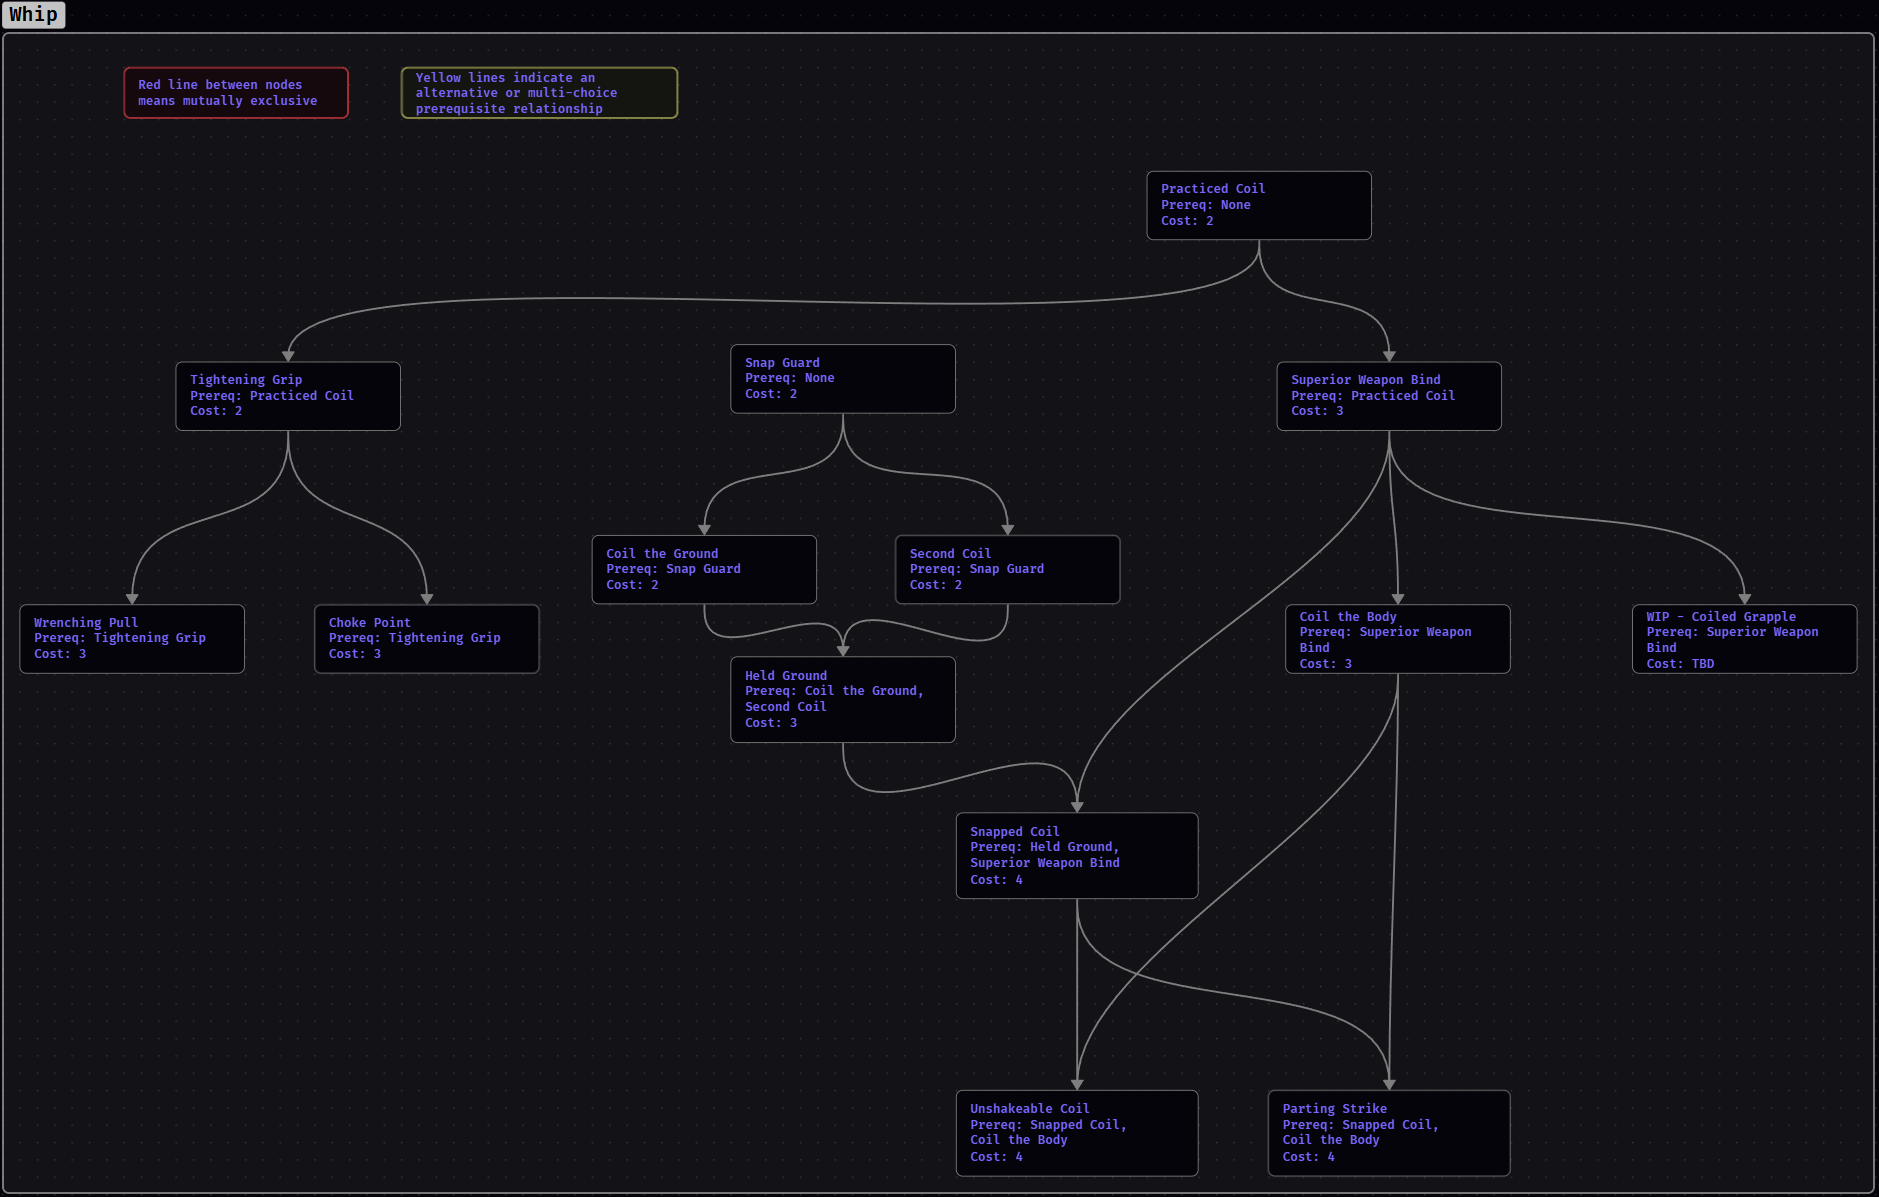
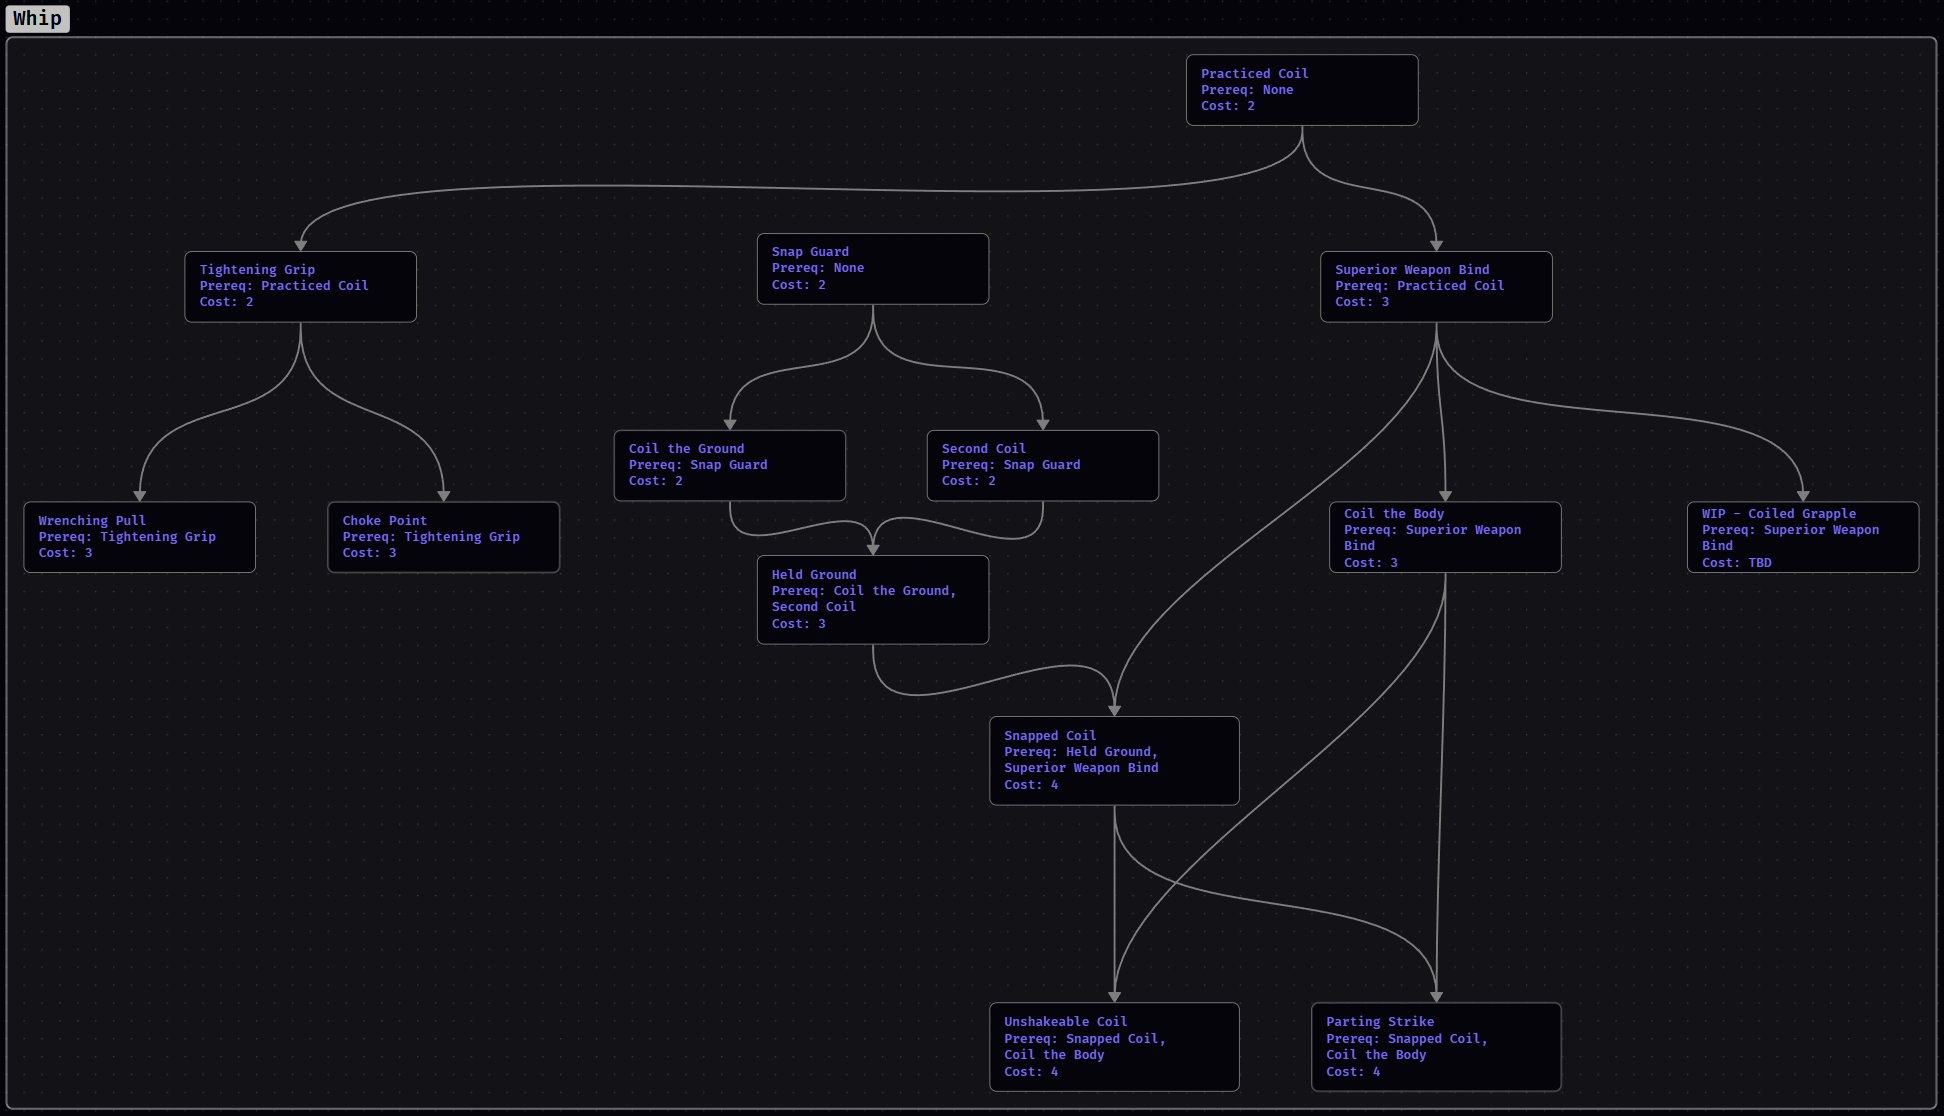
Axes

diff --git a/Worlds/Solasfall/Disciplines/Weapon Mastery/Axes/Axes.md b/Worlds/Solasfall/Disciplines/Weapon Mastery/Axes/Axes.md
@@ -1,0 +1,78 @@
+---
+tags:
+  - Mechanics/Combat
+  - Discipline
+---
+# Axes
+![[Axes.png]]
+## Wide Swing
+**Prerequisites:** None.
+**Cost:** 2 Trait Points.
+Your melee Attack with an axe may instead target a cone extending out to your weapon's Range in front of you, covering your Front Arc and one Side Arc (90° total). Make a single Attack roll, compared individually against the Evasion of every creature in the cone. Damage die is reduced by one step for each target hit beyond the first, to a minimum of 0 damage — it cannot be reduced further or turned negative.
+
+## Broadening Arc
+**Prerequisites:** Wide Swing.
+**Cost:** 2 Trait Points.
+Your cone widens to cover your full 180° — Front Arc and both Side Arcs.
+
+## Cushioned Cleave
+**Prerequisites:** Broadening Arc.
+**Cost:** 3 Trait Points.
+The damage penalty from Wide Swing softens. Your damage die is now reduced by one step for every **two** targets hit beyond the first, rounded down, instead of every one.
+
+## Full Cleave
+**Prerequisites:** Cushioned Cleave.
+**Cost:** 3 Trait Points.
+Remove the damage penalty from your cone Attack entirely. Every target caught in the cone takes your full weapon damage.
+
+## Opened Seams
+**Prerequisites:** None.
+**Cost:** 2 Trait Points.
+Axes you wield with the [[Weapon Traits#Sundering|Sundering]] trait may trigger their Sunder effect on **any** hit against an armoured target, not only when a portion of damage would otherwise reach [[Armour]] DR.
+
+## Deepened Sunder
+**Prerequisites:** Opened Seams.
+**Cost:** 2 Trait Points.
+Your Sundering effect reduces the target's Armour DR by **4** instead of 2.
+
+## Cracking Point
+**Prerequisites:** Deepened Sunder.
+**Cost:** 3 Trait Points.
+Sunder effects you cause may now stack up to **twice** on the same target before repair, instead of the normal single application.
+
+## Armour Breaker
+**Prerequisites:** Cracking Point.
+**Cost:** 3 Trait Points.
+Once per Round, a hit with an axe **ignores the target's Armour DR entirely** for that hit. Sunder still applies afterward as normal. Armour DR reduced through this tree can never be brought below 0 — it only ever removes protection, it does not create vulnerability.
+
+## Reckless Momentum
+**Prerequisites:** None.
+**Cost:** 2 Trait Points.
+[[Heavy Attack|Heavy Attacks]] made with an axe suffer only **–1** to Speed instead of –2.
+
+## Overcommit
+**Prerequisites:** Reckless Momentum.
+**Cost:** 2 Trait Points.
+Heavy Attacks made with an axe cost **1 Full Action** instead of 2. They still deal double damage as normal.
+
+## All In
+**Prerequisites:** Overcommit.
+**Cost:** 3 Trait Points.
+Once per Round, you may forgo your ability to Parry or Dodge until the start of your next turn to add your **Might a second time** to a single axe Attack's damage.
+
+## Unstoppable Swing
+**Prerequisites:** All In.
+**Cost:** 3 Trait Points.
+Heavy Attacks made with an axe no longer reduce Speed at all.
+
+---
+
+## Unbreakable Rhythm
+**Prerequisites:** Armour Breaker, Unstoppable Swing.
+**Cost:** 4 Trait Points.
+Your Sunder effects now apply even through a **Parried** or **Blocked** hit — the armour cracks regardless of whether the strike itself connected cleanly.
+
+## Reaper's Arc
+**Prerequisites:** Full Cleave, All In.
+**Cost:** 4 Trait Points.
+When you make a cone Attack, increase your damage die by **one step** against the single highest-Evasion target caught within it — the swing finds its most dangerous mark hardest, even as it sweeps everyone else aside.

diff --git a/Worlds/Solasfall/Characters/Character Creation.md b/Worlds/Solasfall/Characters/Character Creation.md
@@ -22,7 +22,6 @@ Before choosing a race, allocate Trait Points from your level 0 pool of **25** a
 - **Attributes** — six attributes rated 0–6, each added directly to relevant rolls. Costs scale as attributes increase. All attributes start at 0.
 - **Skill Training** — each point raises training level by 1, up to the maximum of your highest linked Attribute.
 - **Sturdiness Increases** — additional Sturdiness beyond the base value, subject to Vitality requirements (see the universal cost table).
-- **Essence Capacity** — you begin with capacity for 1 Essence; additional capacity may be purchased here.
 
 Racial Tree Nodes and Discipline Nodes **cannot** be purchased yet. You haven't chosen a race, and Disciplines are hard-locked at level 0 regardless of prerequisites.
 
@@ -96,7 +95,7 @@ You have **9 Faith Points** to allocate among the Deities of Solasfall. Points m
 
 Investing all 9 points in a single Deity and completing a personal quest unlocks Follower status and access to the Follower Disciplines tree at level 1.
 
-Worship of Forbidden Deities grants powerful Blessings but carries unique curses. Partial faith in a Forbidden Deity produces minor curses without the full consequences of exclusive devotion.
+Worshippers of Forbidden Deities grants powerful Blessings but carries unique curses. Partial faith in a Forbidden Deity produces minor curses without the full consequences of exclusive devotion.
 
 See Faith and individual Deity notes for full details.
 